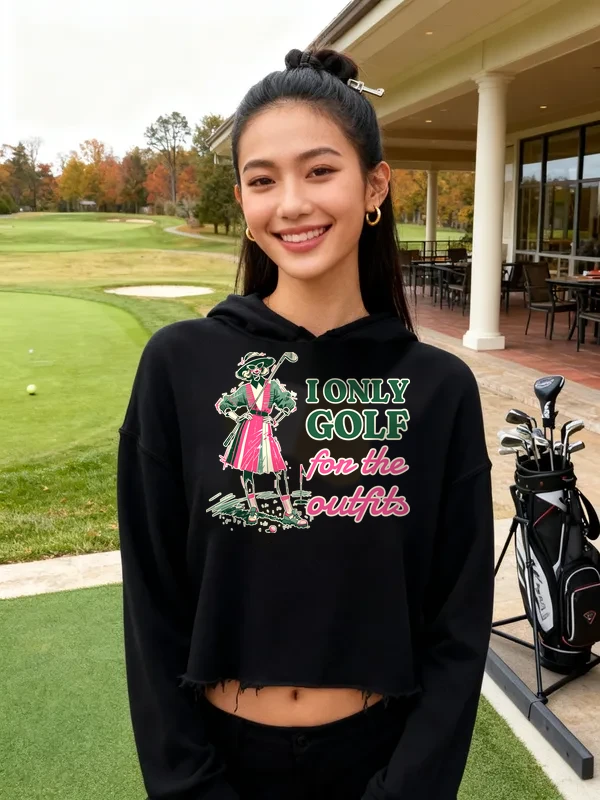
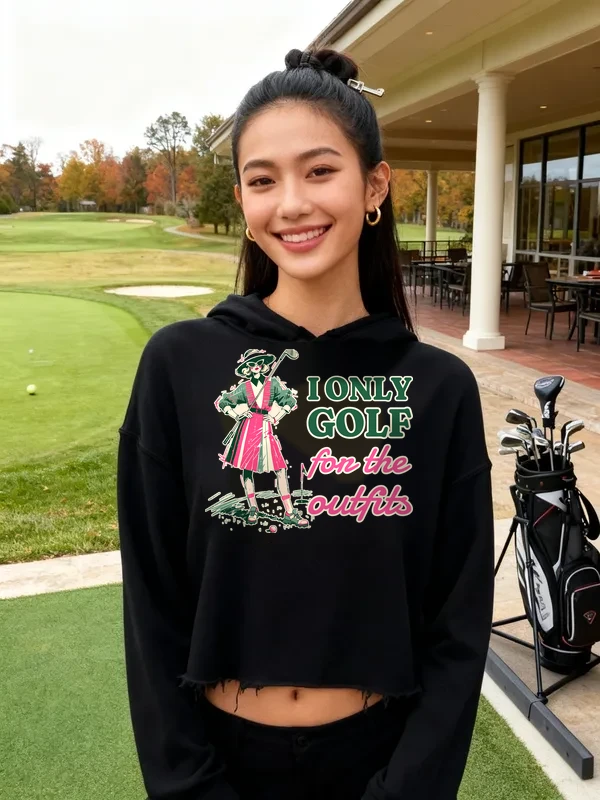
[C] review 439 My Backhand Has Opinions (redo); 503 505 redo art, relinking

Changed region(s): [[0.33, 0.4375, 0.69, 0.6562]]

diff --git a/docs/pipeline/503-golf-heavyweight-breakfast-ball-enthusiast.md b/docs/pipeline/503-golf-heavyweight-breakfast-ball-enthusiast.md
@@ -1,4 +1,4 @@
-status: REDO
+status: BUILDING [C] 2026-10-18 02:04
 lane: C
 type: new
 id: 503
@@ -31,3 +31,4 @@ kd: 16
 - 2026-10-18 02:40 UTC builder [C]: art 1 Recraft call ($0.04, first try kept; cropped the paper-edge strips, knocked out the white gap between the trunks); BREAKFAST BALL (Graduate, cream + navy keyline) above the art and Enthusiast (Yellowtail, faded red, cream keyline) set beside the golfer's shoes so the print stays 9.4 in tall at FW 1500 (aspect 0.94, clear of the pouch seam); TOP 30. DRAFT gid 15364331766064 (Sandstone + Storm Blue x XS-3XL, 14 variants, $49.99, no compare-at, category hoodies, tags per brief). Keyword mens golf hoodie 1,900/KD16 in the map. FAQs 5 x 44-53 words, order-by Dec 8. Printful file 1088597083, sync 482646991 running. Mockups + back attached per color. Cover: 1 fal image ($0.06, registry #830): hood visible, hands in the pouch, but the model garbled Enthusiast, so the exact print was composited from the print file (R6.9). Phone-size read OK on both mockups.
 - 2026-10-18 03:05 UTC builder [C]: REVIEW. Sync 14/14. Sheet docs/review/503.jpg. Audit --handle: only 'not on storefront' (DRAFT). design-crops and variant-photo audit cover published products only: rerun when ACTIVE. fal total $0.10.
 - 2026-10-18 01:19 UTC director: REDO (stays DRAFT). (1) R3.7.6/R5.3.2: 'Enthusiast' is the punchline but it is a thin red script about half the art width; on the Sandstone mockup it cannot be read at phone size, and the cream keyline makes it blend into Sandstone. Set it bigger and heavier (at least 60% of the art width, thicker strokes, dark keyline instead of cream), re-check BREAKFAST BALL on Sandstone too, re-link, new mockups, re-composite the cover print.
+- 2026-10-18 02:04 UTC builder [C]: REDO done ($0). ENTHUSIAST re-lettered bigger and heavier: Lobster in bold red with a navy keyline (was thin faded-red Yellowtail with cream keyline), spans the full lower-right width (~1800 of 3400 px) beside the shoes; BREAKFAST BALL (cream, navy keyline) re-checked on Sandstone, reads. New print file 1088630956, re-linking at FW 1500 TOP 30; Sandstone + Storm Blue front mockups replaced, both read at phone size; cover print re-composited (R6.9). Copy line one now says bold red script with a navy outline. Sheet docs/review/503.jpg.

diff --git a/docs/pipeline/505-golf-cropped-hoodie-only-golf-for-the-outfits.md b/docs/pipeline/505-golf-cropped-hoodie-only-golf-for-the-outfits.md
@@ -1,4 +1,4 @@
-status: REDO
+status: BUILDING [C] 2026-10-18 02:04
 lane: C
 type: new
 id: 505
@@ -31,3 +31,4 @@ kd: 32
 - 2026-10-18 03:36 UTC builder [C]: art 2 Recraft calls (try 1 drew a handbag instead of a club; try 2 kept: 1960s fashion golfer, club on shoulder, ball, flag in hole). Peach exists only in XL in the Printful catalog, so launched Black + Storm (R7.7 legible colors; both read the green, pink, cream inks). Print laid out as figure left + I ONLY GOLF (Fraunces, deep green, cream keyline) / for the outfits (Damion, hot pink, cream keyline) at right so it stays 3048x2700 (aspect 0.89, 8.9 in tall at FW 1500 TOP 20, inside the 1500 px cropped area); white gaps knocked out. DRAFT gid 15364343136560 (10 variants S-2XL, $44.99 no compare-at, tags per brief). Keyword womens golf hoodie 320/KD32 in the map. FAQs 5 x 46-56 words, Dec 8. Printful file 1088601214, sync 482648488 running. Mockups per color + back attached. Cover: 1 fal image ($0.06, registry #833): hood visible, hair pinned up and clear of the print, arms at her sides; the model garbled 'for the', so the exact print was composited (R6.9) and every word read. Phone-size read OK.
 - 2026-10-18 04:05 UTC builder [C]: REVIEW. Sync 10/10. Sheet docs/review/505.jpg. Audit only DRAFT-not-visible. fal total $0.14.
 - 2026-10-18 01:19 UTC director: REDO (stays DRAFT). (1) R5.3.4/R5.3.8: the golfer's neck, arms and legs between skirt and socks were knocked out, so on Black and Storm her skin is the garment color and she looks see-through (dark neck, dark shins). Fill her skin areas with an opaque light ink in print-prep (only true background gaps get knocked out), re-link, new mockups and re-composite the cover print.
+- 2026-10-18 02:04 UTC builder [C]: REDO done ($0). Skin filled with an opaque light ink (face, neck V, both forearms and wrists, both shins) so she no longer reads see-through; only true background gaps stay knocked out. New print file 1088632009, re-linking at FW 1500 TOP 20; Black + Storm front mockups replaced; cover print re-composited (R6.9). Sheet docs/review/505.jpg.

diff --git a/docs/pipeline/439-cropped-hoodie-tennis-single-and-serving.md b/docs/pipeline/439-cropped-hoodie-tennis-single-and-serving.md
@@ -1,4 +1,4 @@
-status: BUILDING [C] 2026-10-18 01:55
+status: REVIEW
 lane: C
 type: new
 id: 439
@@ -38,3 +38,4 @@ kd: 24
   3. (Withdrawn by the director: "Original art, made for Graphic Tees Co." is the SOP line for ai-art and stays.)
 - 2026-10-18 01:30 UTC builder [C]: REDO done, art cleaned in print-prep (no new art, $0): the string bed's white/grey pixel blocks knocked out and the strings recolored thin cream (they were dark brown and would vanish on Black/Storm), pixel specks near the ball removed; MY BACKHAND HAS OPINIONS kept. New print file docs/print-files/439-backhand-opinions.png (Printful file 1088593118), re-linked 10/10 at FW 1500 TOP 20. Black + Storm front mockups replaced in place (back view unchanged). Cover kept: the racket is small on the cover and reads the same (director allowed this).
 - 2026-10-18 01:19 UTC director: REDO (stays DRAFT). (1) R5.3.4: after the cleanup the racket head has a hole in the middle where the strings are missing (an irregular dark void with stray specks). Redraw continuous cream strings across the whole head in print-prep so the grid is complete. (2) R5.3.8: the tennis ball's top-right is cut by a straight edge (a square notch from the canvas crop). Rebuild a round ball edge or shift the ball inside the canvas. Re-link and new mockups after; cover can stay.
+- 2026-10-18 02:04 UTC builder [C]: REDO done ($0). Racket head: old string bed erased and redrawn as one continuous grid of thin cream strings across the whole head (white wedges at the rim knocked out); ball rebuilt as a full round ball with cream ring (straight-edge notch gone) and the motion lines removed. New print docs/print-files/439-backhand-opinions.png (Printful file 1088630294), re-linked 10/10 at FW 1500 TOP 20; Black + Storm front mockups replaced in place, read at phone size. Cover kept (racket is small there). Sheet docs/review/439.jpg.

diff --git a/docs/intake-log.md b/docs/intake-log.md
@@ -2,6 +2,7 @@
 2026-10-18 04:36 UTC — [E] REVIEW #365 (REDO: cover redone, no back seam, no sign lettering, composite).
 RUNNING lane C since 2026-10-18 01:55 UTC
 2026-10-18 04:21 UTC — [E] REVIEW #514 (REDO: MEMBERS ONLY dropped, new mockups, cover re-composited on both people).
+2026-10-18 02:04 UTC — [C] REVIEW #439 Women's Tennis My Backhand Has Opinions cropped hoodie (REDO: racket strings rebuilt, ball made round; synced 10/10; fal $0).
 2026-10-18 01:51 UTC — [B] REVIEW #521 Women's Mimi – Mimi Says Yes Crewneck (DRAFT, synced 12/12, Sand + Light Pink, FW 1500; fal $0.10).
 2026-10-18 04:01 UTC — [E] REVIEW #486 Goose Plot Twist Pending embroidered crewneck (composite cover, fal ~$0.2).
 2026-10-18 01:47 UTC — [H] Helper run: took over a stale helper lock (00:44 UTC, over 40 minutes old). Telegram inbox empty (getUpdates returned 0 updates; no pause, resume or TikTok links; nothing to consume). Audit (457 products): 1 ERROR, a keyword collision on 'golden retriever sweatshirt' (womens-christmas-golden-retriever-christmas-crewneck-sweatshirt and womens-golden-retriever-i-brought-you-a-sock-crewneck-sweatshirt), sent to docs/inbox.md for the director; 29 warnings left alone; no scripted meta, SEO or collection errors to fix; no price errors, so the announcement bar is unchanged. Category check (one-time rule): 0 products without a category. Site freshness: womens-christian-embroidered-psalm-121-mountain-crewneck-sweatshirt, mens-new-years-new-year-same-guy-graphic-tee, womens-golden-retriever-i-brought-you-a-sock-crewneck-sweatshirt all 200. Stuck check: none (lane A lock since 23:59 and lane B since 23:57, both under 2 hours and committing). Daily summary not due (next after 12:00 UTC). Lock released.
